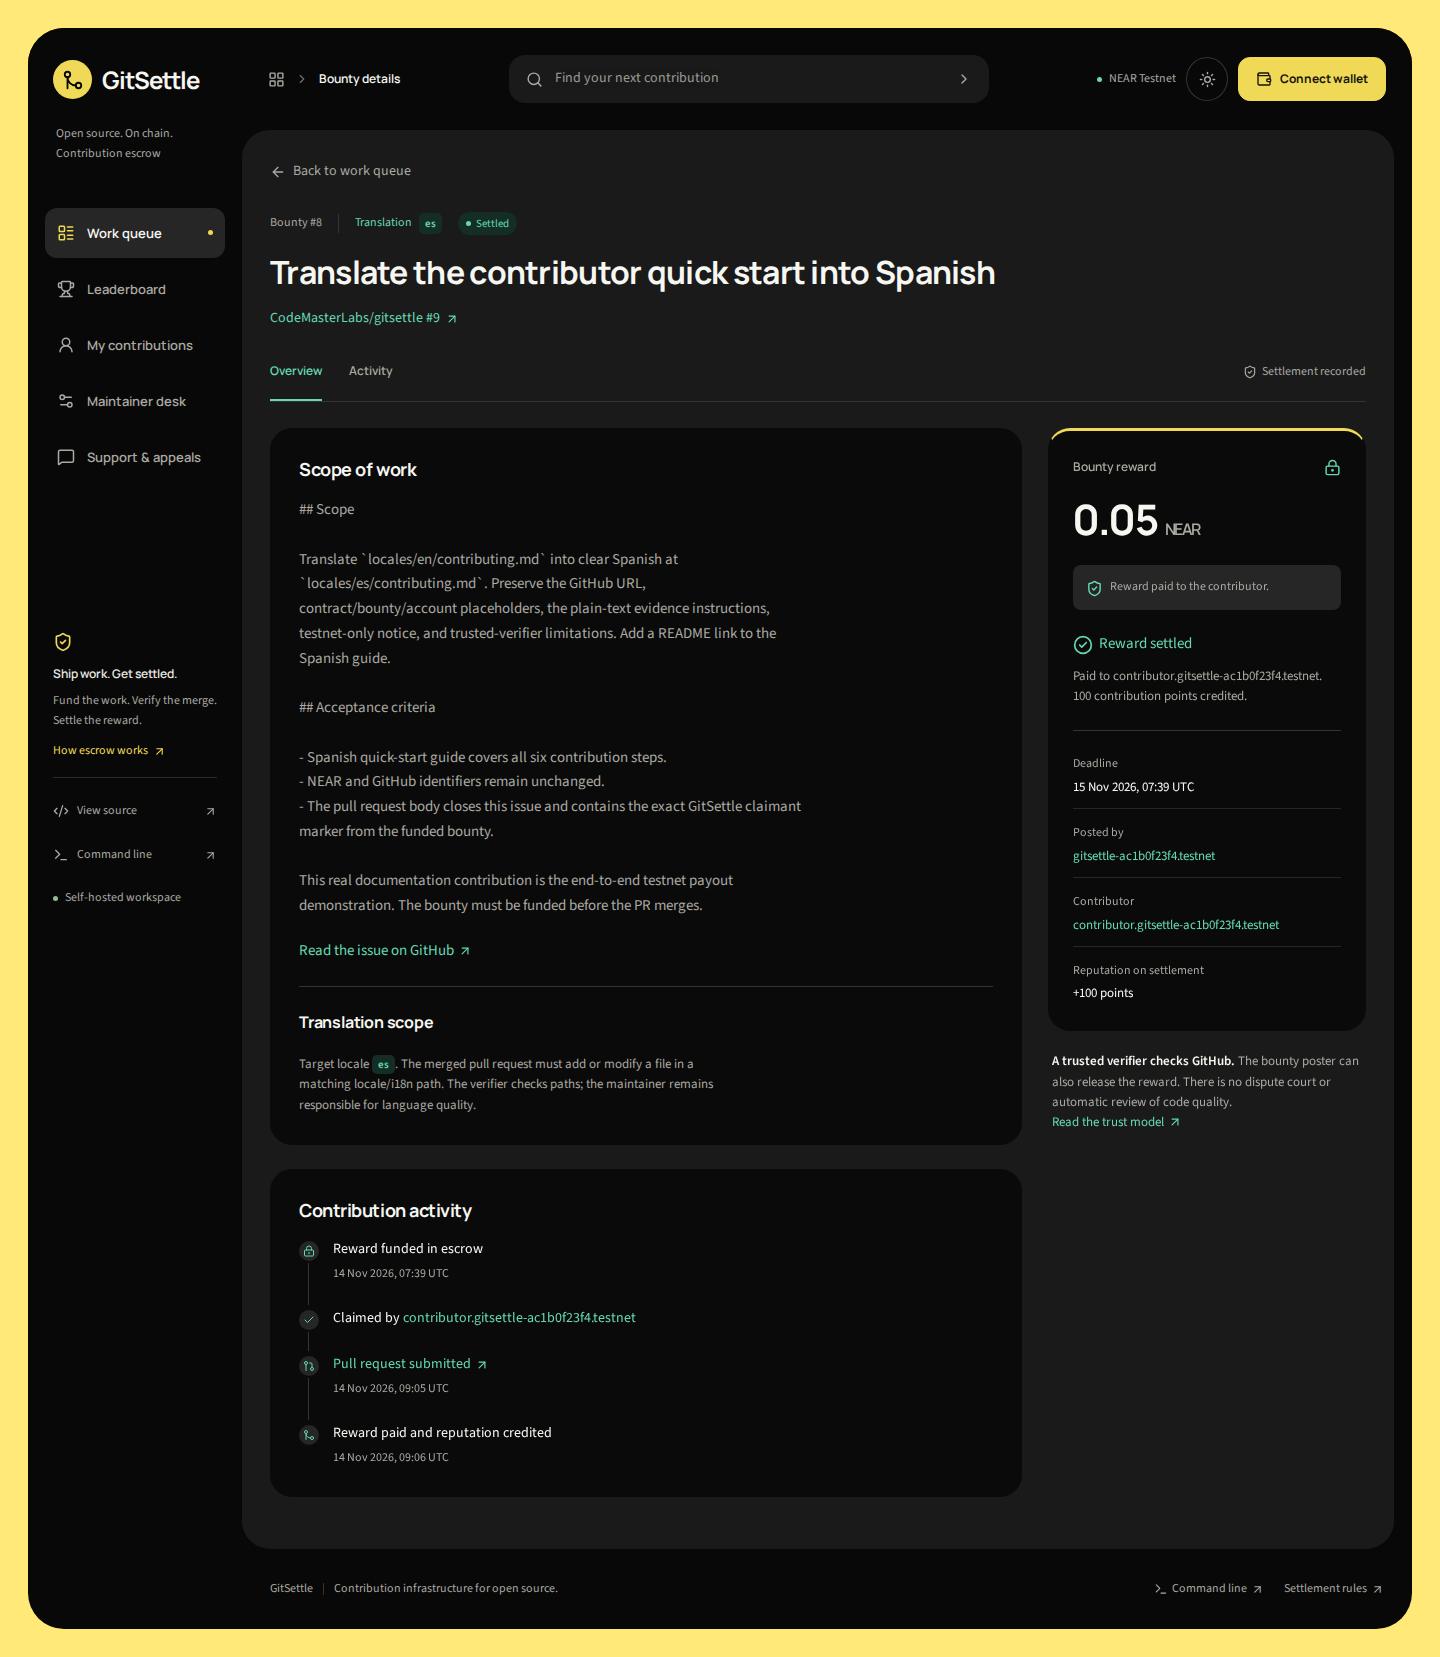
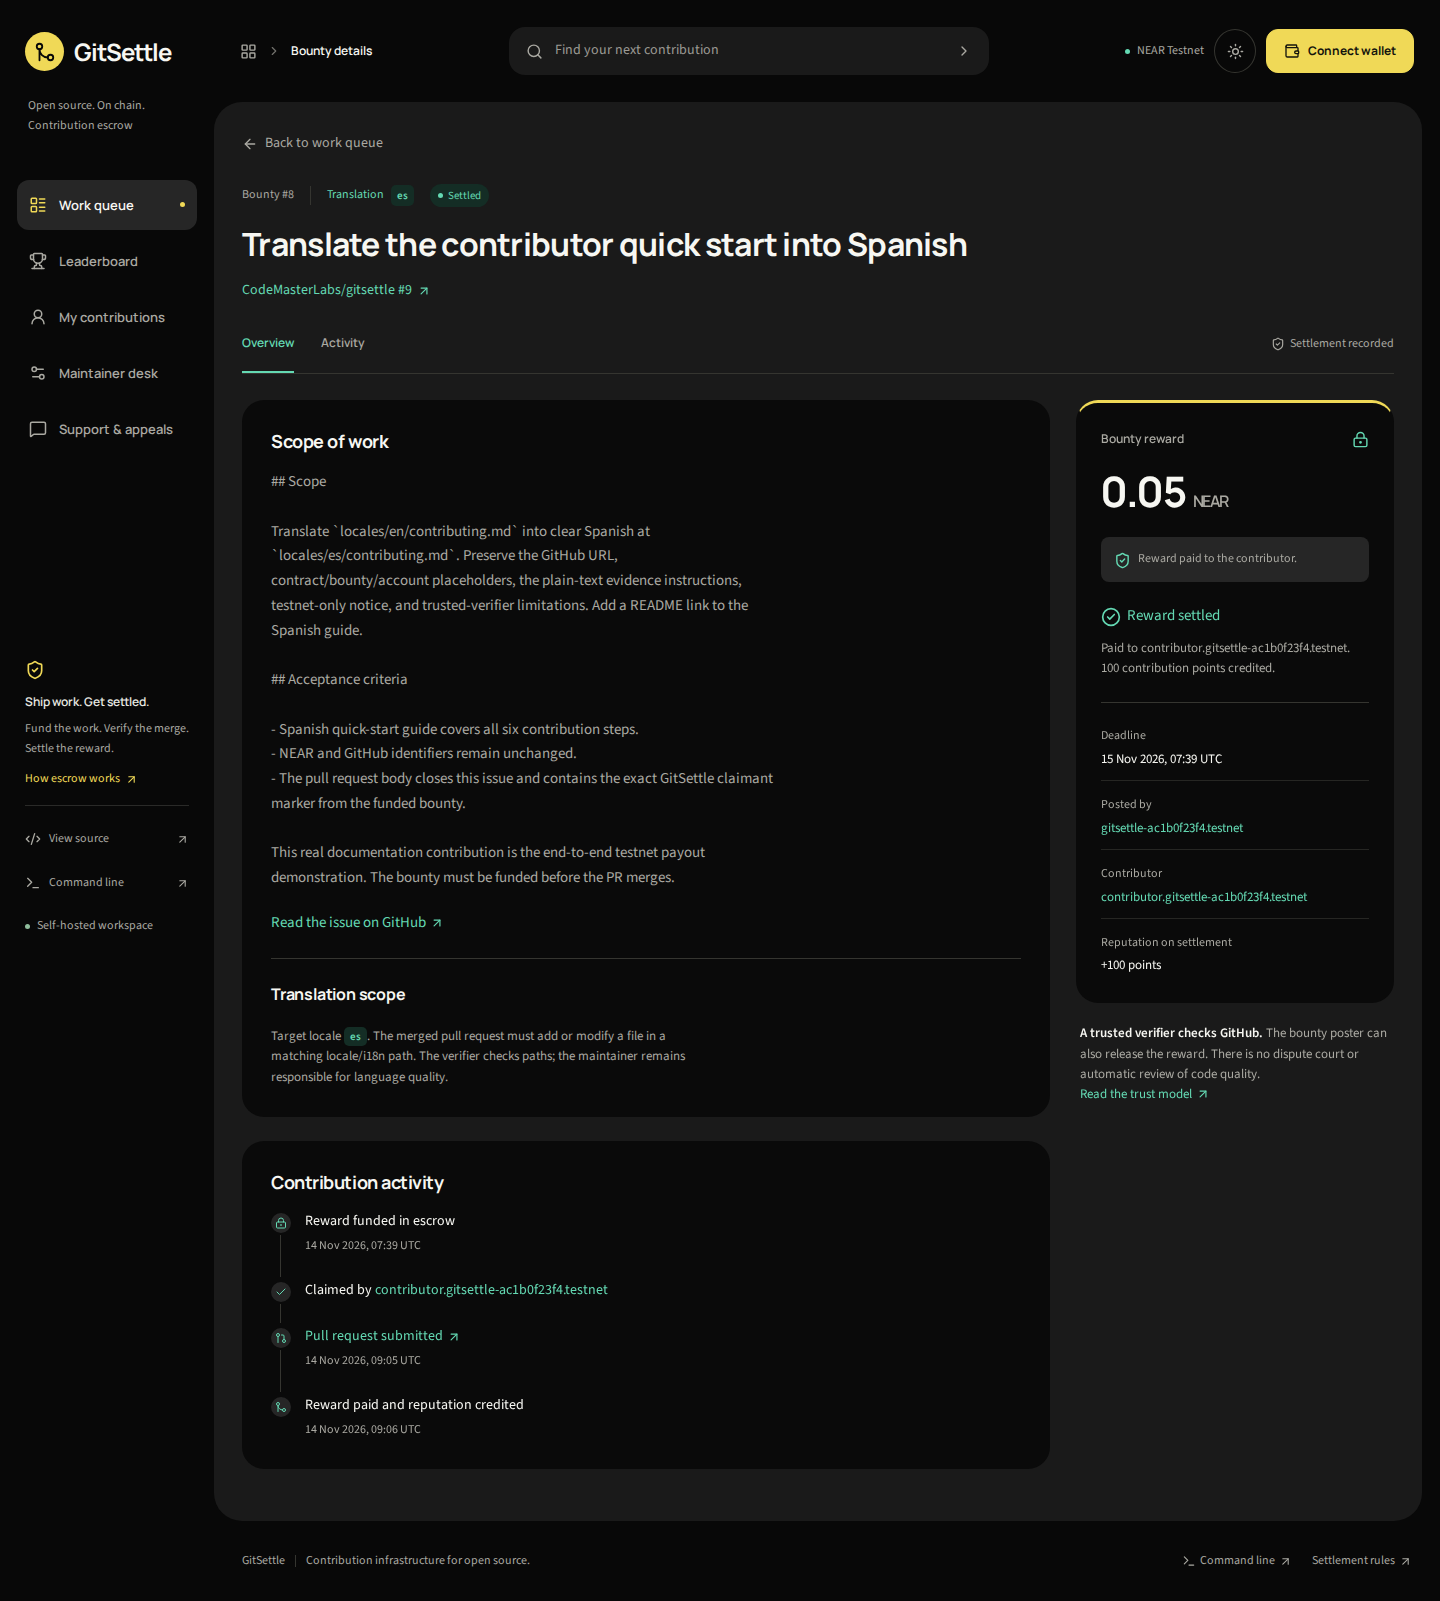
docs: record verified full-viewport deployment [skip ci]

Changed region(s): [[0.0, 0.0, 1.0, 1.0], [0.1875, 0.7183, 0.4375, 0.9057]]

diff --git a/docs/UI_REVIEW.md b/docs/UI_REVIEW.md
@@ -1,6 +1,6 @@
 # Browser and visual review
 
-**Verified November 14, 2026: all 143 executed browser checks pass** against the dApp Next.js production build, using Playwright 1.65.1 and Chromium. [GitHub run 43614903721](https://github.com/CodeMasterLabs/gitsettle/actions/runs/43614903721) passed the full suite on published source `a63ff25c6d69733ce253da15546c22b3142150c2`; local full and focused runs verified the same scenarios. Playwright discovers 144 scenarios; the desktop global-search scenario is intentionally skipped on mobile, which has its own queue search. The production build completed without warnings.
+**Verified November 14, 2026: all 143 executed browser checks pass** against the full-viewport Next.js production build, using Playwright 1.65.1 and Chromium. The application job in [GitHub run 43617582625](https://github.com/CodeMasterLabs/gitsettle/actions/runs/43617582625) passed the full suite on published source `09b644a6dff716df02886a1b42cb1b63159d138c`. Local verification for the outer-frame removal passed 27 existing layout/accessibility checks plus geometry inspection across 24 theme/page/viewport combinations from 320 to 2560 px. Playwright discovers 144 scenarios; the desktop global-search scenario is intentionally skipped on mobile, which has its own queue search. The production build completed without warnings.
 
 The suite uses clearly labeled demo data. Wallet checks use the real selector modules and NEAR Connect sandbox with injected Nightly, popup-boundary and sandbox-executor fixtures; they do not approve a real account or sign transactions. Confirmation, support-session, ticket, signature callback and AI responses are explicit fixtures. The connected-header layout check substitutes public account markup only; it proves responsive layout, not wallet ownership. Real HTTP authentication and settlement evidence are recorded separately in [COMMUNITY_E2E.json](COMMUNITY_E2E.json) and [LIVE_E2E.json](LIVE_E2E.json).
 
@@ -21,9 +21,9 @@ The suite uses clearly labeled demo data. Wallet checks use the real selector mo
 
 Main layouts were tested at **1440 × 960**, **375 × 812**, and dark desktop appearance. An additional connected-wallet layout regression checks **320 px and 375 px** in each appearance: header elements cannot overlap, account/theme/disconnect targets are at least 44 px high, form values use at least 16 px text to avoid iOS focus zoom, and testnet identification remains visible.
 
-The dApp revision follows the user's reference: a yellow canvas around a rounded black frame, integrated navigation, charcoal workspace, black inset queue and a yellow translation panel. Manrope carries headings and financial values; Source Sans carries body text. Escrow, category and locale summaries come from real queue data. The first visit uses dark appearance; a saved light choice persists. Mobile navigation and category tiles scroll within their own regions, account controls wrap beneath the breadcrumb, and the comparative leaderboard retains a labeled, keyboard-focusable scroll region.
+The dApp revision uses a full-viewport shell with integrated navigation, charcoal workspace, black inset queue and a yellow translation panel. The user's follow-up removed the outer yellow canvas and all outer gutters/corner radii. Manrope carries headings and financial values; Source Sans carries body text. Escrow, category and locale summaries come from real queue data. The first visit uses dark appearance; a saved light choice persists. Mobile navigation and category tiles scroll within their own regions, account controls wrap beneath the breadcrumb, and the comparative leaderboard retains a labeled, keyboard-focusable scroll region.
 
-The refreshed captures include **90 demo/fixture PNGs**. Each full-page capture scrolls to the top first, preventing sticky navigation and the offscreen skip link from appearing at a misleading scrolled position. Native dialogs use viewport captures because their top-layer backdrop covers the viewport. The visual review inspected all seven main routes, both desktop appearances, mobile layouts, 320 px layouts and long-account wallet dialogs. It corrected hidden-label overflow in the category strip and a split decimal in mobile maintainer totals; the final checks verify the corrected layout.
+The capture library includes **90 demo/fixture PNGs**. Main-route, provider-picker and connected-header captures were refreshed for the full-viewport follow-up; state-specific fixture captures record the earlier wallet revision. Each full-page capture scrolls to the top first. Native dialogs use viewport captures because their top-layer backdrop covers the viewport. The visual review covered all seven main routes, both desktop appearances, mobile layouts, 320 px layouts and wallet dialogs. The earlier hidden-label overflow and split mobile financial decimal fixes continue to pass.
 
 Automated accessibility checks cannot replace a complete assistive-technology audit. Browser fixture results must not be presented as real escrow or provider activity. The separate `screenshots/live/` directory records the public deployment and is updated independently during deployment verification.
 

diff --git a/STATUS.md b/STATUS.md
@@ -2,6 +2,13 @@
 
 Updated: 2026-11-14. Canonical repository: https://github.com/CodeMasterLabs/gitsettle.
 
+## Full-viewport layout — deployed
+
+- Removed the outer yellow canvas, page margins, maximum shell width and outer rounded corners. The application reaches all four viewport edges in both themes; mobile short pages use the full available height.
+- Runtime source: `09b644a6dff716df02886a1b42cb1b63159d138c`, published and deployed from the clean public clone. Both services use image `sha256:aef4ccc04c203647e02d7e6bfae978b60ab8dd0a1ad4cdd4f9b81fb53971d18c` with zero restarts; web health passed.
+- Production build and 27 existing layout/accessibility/browser checks passed. Geometry inspection passed 24 theme/page/viewport combinations at 320, 375, 940, 1180, 1440 and 2560 px. All seven public routes, the mobile queue and provider picker were checked and recaptured with no outer gaps, page overflow or runtime errors.
+- CI: [43617582625](https://github.com/CodeMasterLabs/gitsettle/actions/runs/43617582625) passed all contract, application and container jobs, including the full 143-check browser suite. The performance observations below record their original source.
+
 ## Completed and verified
 
[1 lines of base64/hex data omitted]
@@ -16,7 +23,7 @@ Updated: 2026-11-14. Canonical repository: https://github.com/CodeMasterLabs/git
 - **Initial real support proof:** at 09:22 UTC, `scripts/verify-support.ts` passed against public HTTPS using actual finalized testnet FullAccess keys. It verified NEP-413 signatures, nonce replay, CSRF, session-derived identity, unrelated-wallet isolation, ticket reply/resolution and logout. No NEAR transactions sent. Evidence: `docs/COMMUNITY_E2E.json`.
 - **Original containers:** clean public clone `9ca2b56` built and started on VPS using Docker Compose without credentials, with persistent SQLite and HTTPS verified. Details: `docs/DOCKER_VERIFICATION.md`. Latest live checks are recorded alongside that baseline.
 
-## Reference dApp / multi-wallet release — deployed
+## Earlier reference dApp / multi-wallet release
 
 - **Design:** the supplied black/yellow dashboard composition now spans all main routes, with real escrow/category/locale summaries, global search, a default dark appearance and a saved light choice. Mobile category labels stay inside their scroll region; maintainer amounts occupy a full-width metric. All main route and wallet screenshots reviewed.
 - **Wallets:** custom accessible MyNearWallet, Meteor, Intear and Nightly picker; lazy provider SDK loading, account management, Testnet identity connection without new function-call keys, pinned sandbox executors and preserved transaction recovery. Intear supports escrow only; its complete callback-bound support message is unavailable. Provider/site and fixture verification limits are in `docs/WALLETS.md`.
